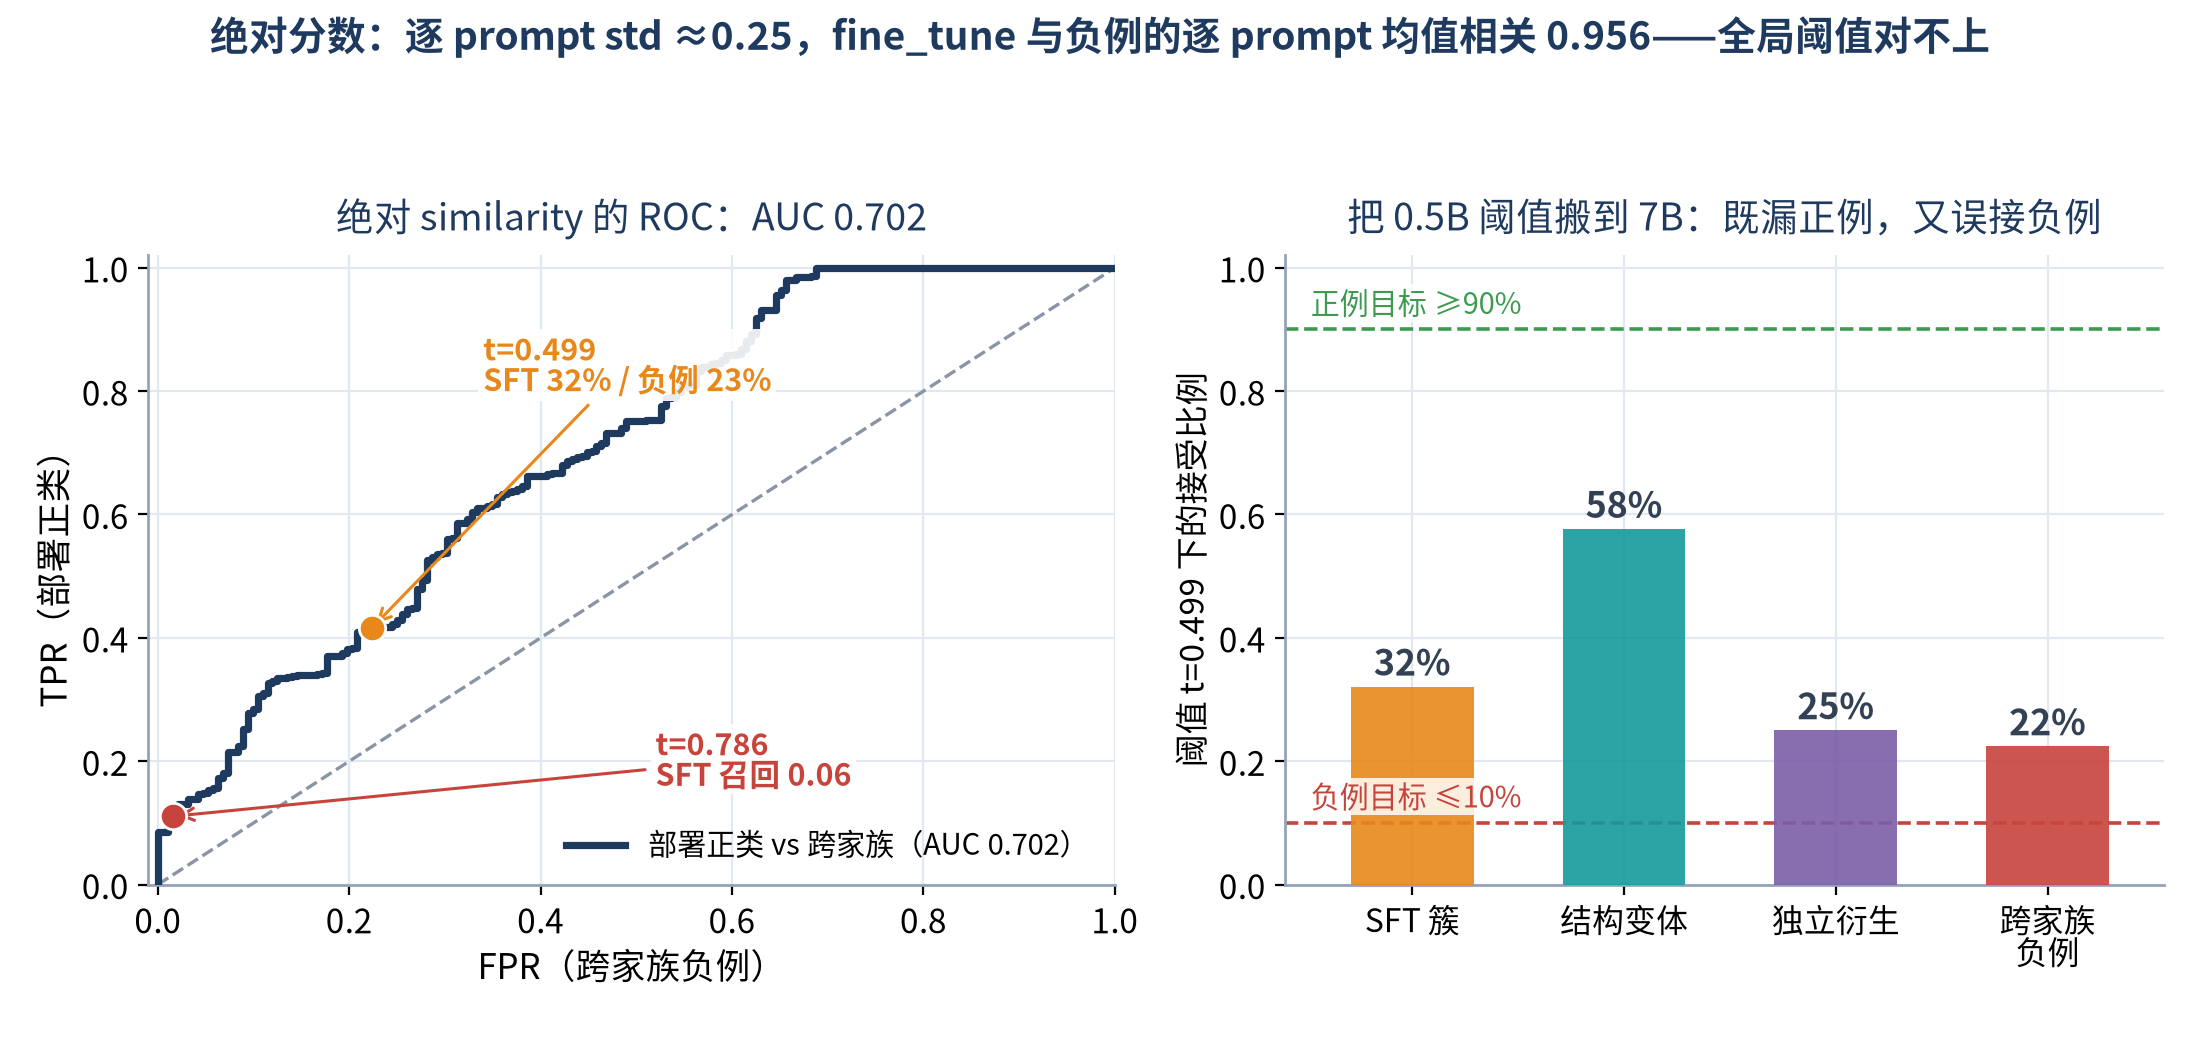
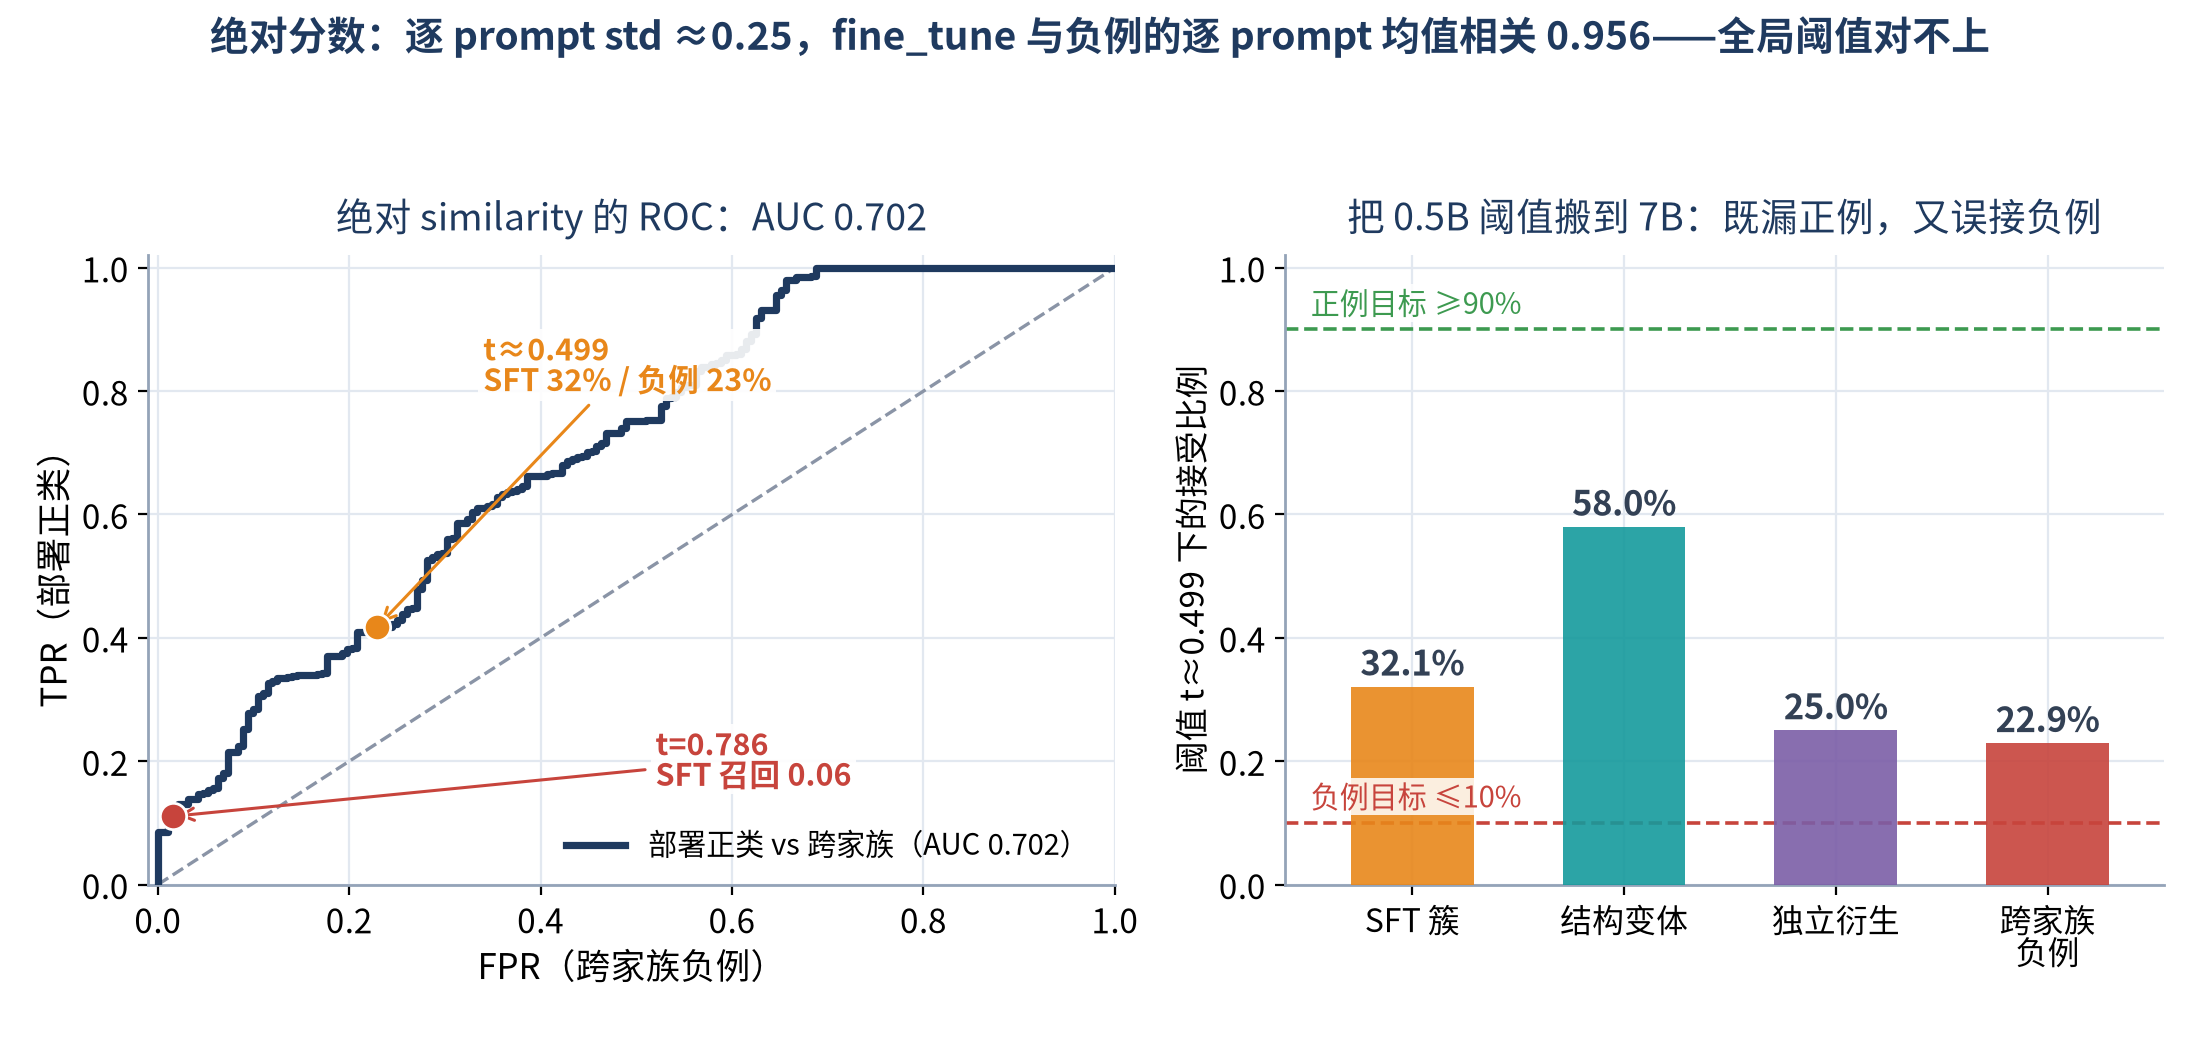
docs(v4): 修订汇报PPT_v2文案与绝对阈值图

diff --git a/llm_migration_v4/汇报PPT_v2/make_charts_v2.py b/llm_migration_v4/汇报PPT_v2/make_charts_v2.py
@@ -273,6 +273,7 @@ def fig_absolute():
     p = np.asarray(pos)[:, None]
     q = np.asarray(neg)[None, :]
     auc = float(((p > q).sum() + 0.5 * (p == q).sum()) / (len(pos) * len(neg)))
+    t_mid = 0.49853575967743075  # v3 两类均值中点（报告写作 t≈0.499）
 
     fig, axes = plt.subplots(1, 2, figsize=(11.0, 5.2), dpi=200,
                              gridspec_kw={"width_ratios": [1.1, 1]})
@@ -281,7 +282,7 @@ def fig_absolute():
     ax.plot([0, 1], [0, 1], color=GRAY, ls="--", lw=1.2, zorder=1)
     for t, c, lab, tx, ty in [
             (0.786037998868464, RED, "t=0.786\nSFT 召回 0.06", 0.52, 0.16),
-            (0.499, ORANGE, "t=0.499\nSFT 32% / 负例 23%", 0.34, 0.80)]:
+            (t_mid, ORANGE, "t≈0.499\nSFT 32% / 负例 23%", 0.34, 0.80)]:
         fp = np.mean(np.asarray(neg) >= t)
         tp = np.mean(np.asarray(pos) >= t)
         ax.scatter([fp], [tp], s=90, color=c, zorder=5, edgecolor="white")
@@ -300,11 +301,17 @@ def fig_absolute():
 
     ax = axes[1]
     groups = ["SFT 簇", "结构变体", "独立衍生", "跨家族\n负例"]
-    vals = [0.3208, 0.5764, 0.2500, 0.2240]
+    sft_vals = [r["similarity"] for n in SFT for r in load_rows("scores", n)]
+    strong_vals = [r["similarity"] for n in STRONG for r in load_rows("scores", n)]
+    hard_vals = [r["similarity"] for n in ["derivative_cn"] for r in load_rows("scores", n)]
+    vals = [np.mean(np.asarray(sft_vals) >= t_mid),
+            np.mean(np.asarray(strong_vals) >= t_mid),
+            np.mean(np.asarray(hard_vals) >= t_mid),
+            np.mean(np.asarray(neg) >= t_mid)]
     cols = [ORANGE, TEAL, PURPLE, RED]
     ax.bar(range(4), vals, width=0.58, color=cols, alpha=0.9, zorder=3)
     for i, v in enumerate(vals):
-        ax.text(i, v + 0.018, f"{v:.0%}", ha="center", fontsize=13,
+        ax.text(i, v + 0.018, f"{v:.1%}", ha="center", fontsize=12.5,
                 fontweight="bold", color="#334155")
     ax.axhline(0.90, color=GREEN, ls="--", lw=1.3)
     ax.text(-0.48, 0.925, "正例目标 ≥90%", ha="left", fontsize=10.5,
@@ -318,7 +325,7 @@ def fig_absolute():
     ax.set_xticklabels(groups, fontsize=11.5)
     ax.set_xlim(-0.6, 3.55)
     ax.set_ylim(0, 1.02)
-    ax.set_ylabel("阈值 t=0.499 下的接受比例", fontsize=12)
+    ax.set_ylabel("阈值 t≈0.499 下的接受比例", fontsize=12)
     ax.set_title("把 0.5B 阈值搬到 7B：既漏正例，又误接负例",
                  fontsize=13.5, color=NAVY, pad=9)
     style_ax(ax)
